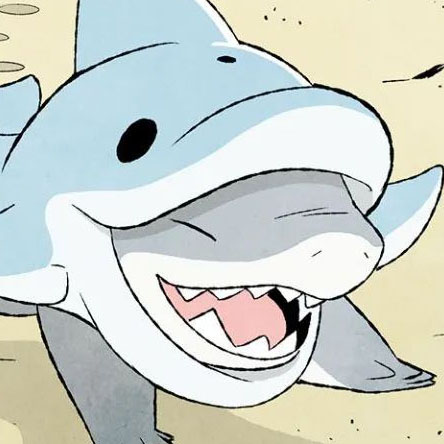
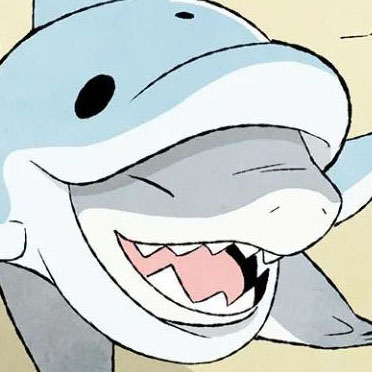
Remove Fun match photos, refresh homepage profile pics, and polish gallery titles.

diff --git a/js/component-photo-gallery.js b/js/component-photo-gallery.js
@@ -23,7 +23,7 @@
     {
       id: 'cw-3867',
       src: BASE + 'Curacao-2025/IMG_3867.jpg',
-      title: 'Curacao alley architecture',
+      title: 'Curacao Alley Architecture',
       date: 'June 7, 2025',
       category: 'Travel',
       camera: 'iPhone 13',
@@ -33,7 +33,7 @@
     {
       id: 'cw-5323',
       src: BASE + 'Curacao-2025/IMG_5323.jpg',
-      title: 'Ocean views',
+      title: 'Ocean Views',
       date: 'June 5, 2025',
       category: 'Travel',
       camera: 'iPhone 13',
@@ -43,7 +43,7 @@
     {
       id: 'cw-5371',
       src: BASE + 'Curacao-2025/IMG_5371.jpg',
-      title: 'Cat spotting in alley',
+      title: 'Cat Spotting in Alley',
       date: 'June 7, 2025',
       category: 'Travel',
       camera: 'iPhone 13',
@@ -83,28 +83,8 @@
       albumId: 'fun'
     },
     {
-      id: 'fun-5965',
-      src: BASE + 'Fun/IMG_5965.jpg',
-      title: 'Australia vs Paraguay',
-      date: 'June 25, 2026',
-      category: 'Sports',
-      camera: 'iPhone 13',
-      location: "Levi's Stadium, Santa Clara, California",
-      albumId: 'fun'
-    },
-    {
       id: 'fun-5973',
       src: BASE + 'Fun/IMG_5973.jpg',
-      title: 'Australia vs Paraguay',
-      date: 'June 25, 2026',
-      category: 'Sports',
-      camera: 'iPhone 13',
-      location: "Levi's Stadium, Santa Clara, California",
-      albumId: 'fun'
-    },
-    {
-      id: 'fun-5976',
-      src: BASE + 'Fun/IMG_5976.jpg',
       title: 'Australia vs Paraguay',
       date: 'June 25, 2026',
       category: 'Sports',
@@ -147,7 +127,7 @@
     {
       id: 'gr-2633',
       src: BASE + 'Greece-2023/IMG_2633.jpg',
-      title: 'Cat spotting at donut shop',
+      title: 'Cat Spotting at Donut Shop',
       date: 'July 8, 2023',
       category: 'Travel',
       camera: 'iPhone 13',
@@ -167,7 +147,7 @@
     {
       id: 'gr-2742',
       src: BASE + 'Greece-2023/IMG_2742.jpg',
-      title: 'Mykonos architecture',
+      title: 'Mykonos Architecture',
       date: 'July 10, 2023',
       category: 'Travel',
       camera: 'iPhone 13',
@@ -197,7 +177,7 @@
     {
       id: 'gr-3025',
       src: BASE + 'Greece-2023/IMG_3025.jpg',
-      title: 'Santorini view',
+      title: 'Santorini View',
       date: 'July 13, 2023',
       category: 'Travel',
       camera: 'iPhone 13',
@@ -291,7 +271,7 @@
     {
       id: 'jp-4129',
       src: BASE + 'Japan-2023/IMG_4129.jpg',
-      title: 'Bamboo Forest',
+      title: 'Arashiyama Bamboo Grove',
       date: 'December 12, 2023',
       category: 'Travel',
       camera: 'iPhone 13',
@@ -301,7 +281,7 @@
     {
       id: 'jp-4211',
       src: BASE + 'Japan-2023/IMG_4211.jpg',
-      title: 'Monkey Forest',
+      title: 'Arashiyama Monkey Park',
       date: 'December 12, 2023',
       category: 'Travel',
       camera: 'iPhone 13',
@@ -311,7 +291,7 @@
     {
       id: 'jp-4222',
       src: BASE + 'Japan-2023/IMG_4222.jpg',
-      title: 'Katsu Dinner',
+      title: 'Katsukura Tonkatsu Sanjo Dinner',
       date: 'December 12, 2023',
       category: 'Travel',
       camera: 'iPhone 13',

diff --git a/index.html b/index.html
@@ -2191,10 +2191,10 @@
       const PFP_PATH = 'images/home/profile-pics/';
       const PFP_IMAGES = [
         'evan-pfp.avif',
-        'robin-manga-pfp.png',
         'chopper-pfp.jpg',
+        'dota2-juggernaut.png',
         'piplup-pfp.jpg',
-        'jeff-dolphin-pfp.jpg'
+        'optcg-robin-sunohara.jpg'
       ];
 
       let pfpIndex = 0;